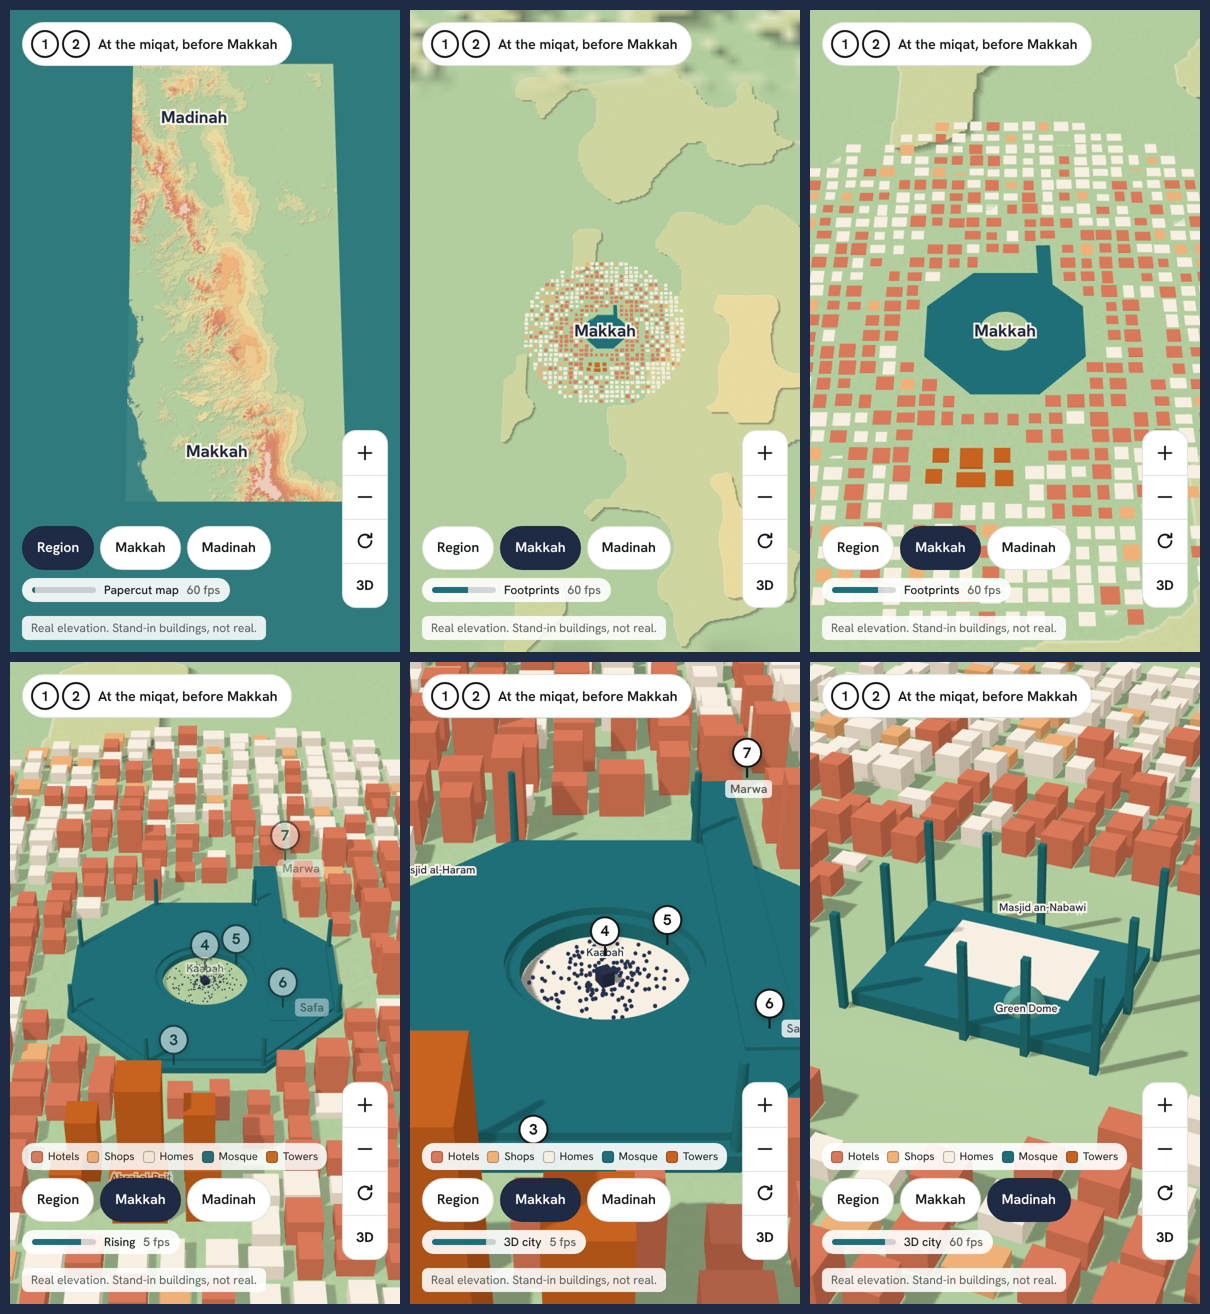
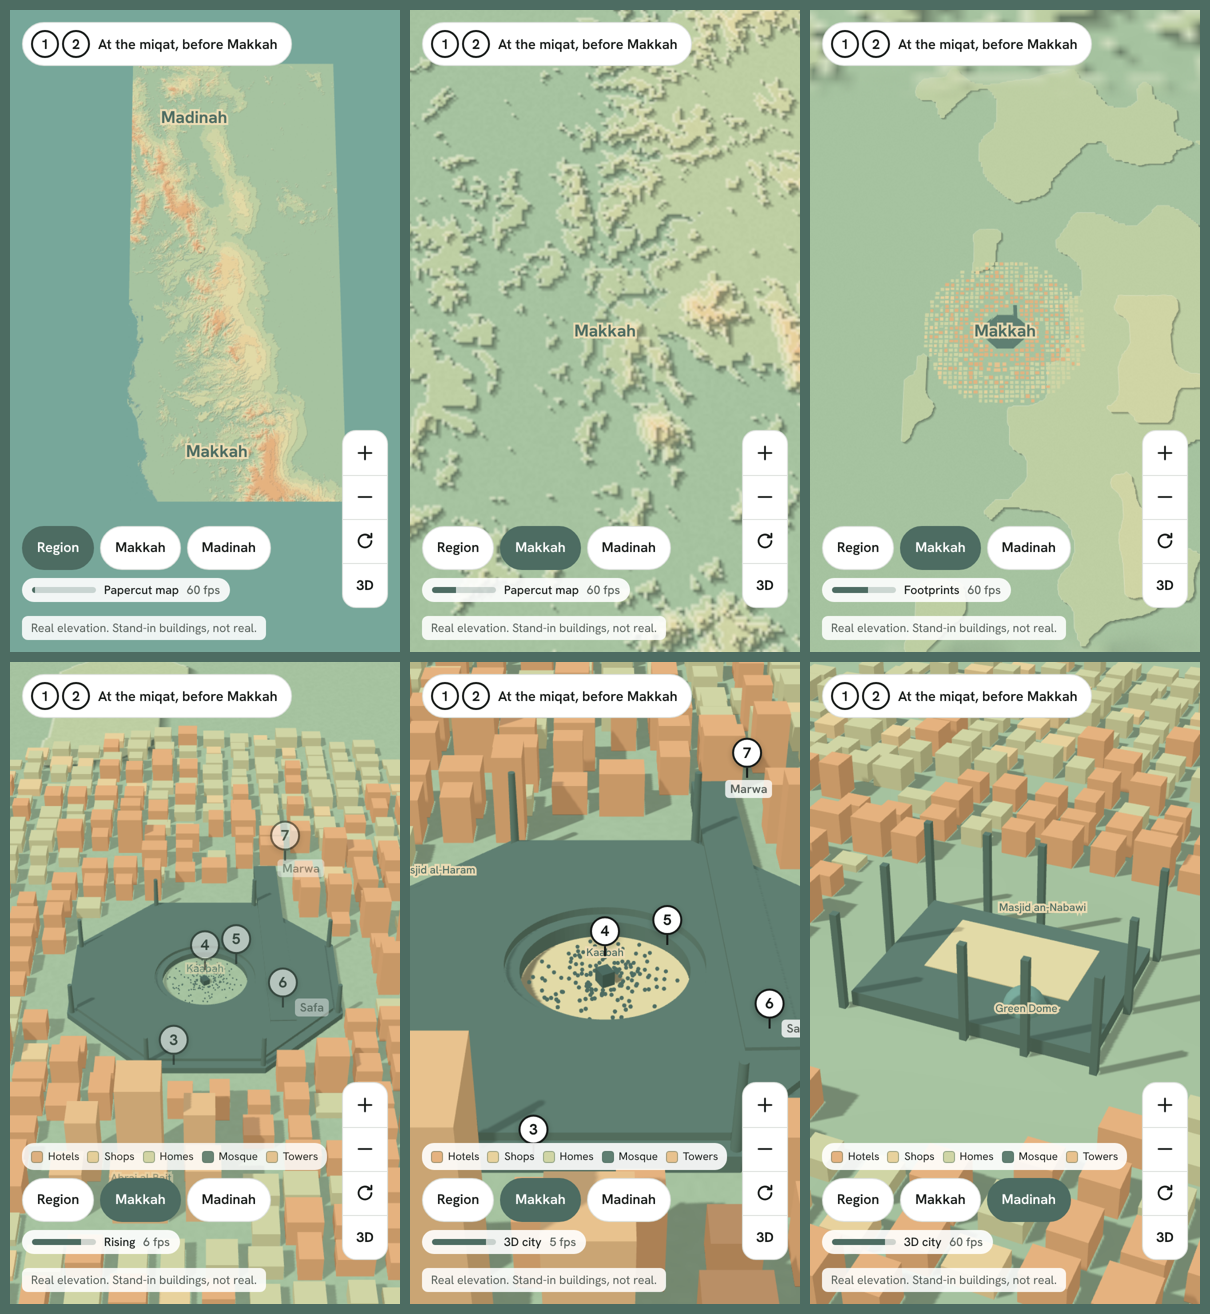
Papercut look: use only colours from the owner's reference image
Claude-Session: https://claude.ai/code/session_01NUgj7qxqmee1KNoCQzb7eD

diff --git a/src/scene/paperPaint.ts b/src/scene/paperPaint.ts
@@ -6,38 +6,24 @@
 // look: a soft shadow on the lower right of each higher layer, a faint light
 // edge on its upper left, and a little grain.
 
-const PAPER: [number, string][] = [
-  [0, '#2f7a7c'],
-  [0.18, '#62a69a'],
-  [0.38, '#b5cf9e'],
-  [0.55, '#ecdca0'],
-  [0.72, '#f0b178'],
-  [0.86, '#d9795a'],
-  [1, '#f7efe2'],
+/**
+ * The ground colours, all taken from the owner's reference image. Not every
+ * colour in the image is used: its seafoam green (#8fb69e) is left out because
+ * it is too close to the water colour. Layers 0-3 are open water; layers 4-11 are
+ * land from the valley floor up, in the image's order from bottom to top. The
+ * two highest layers share the warm orange.
+ */
+export const GROUND_COLOURS = [
+  '#77a79a', '#77a79a', '#77a79a', '#77a79a', // water
+  '#a6c3a0', '#becfa3', '#d0d5a5', '#e2daa7', '#e8d29d', '#e8c28e', '#e5b27f', '#e5b27f',
 ];
-export const LAYERS = 12;
+export const LAYERS = GROUND_COLOURS.length;
 
-const hex = (c: string): [number, number, number] => [
+const LAYER_COLOURS = GROUND_COLOURS.map((c): [number, number, number] => [
   parseInt(c.slice(1, 3), 16),
   parseInt(c.slice(3, 5), 16),
   parseInt(c.slice(5, 7), 16),
-];
-
-function ramp(t: number): [number, number, number] {
-  for (let i = 1; i < PAPER.length; i++) {
-    if (t <= PAPER[i][0]) {
-      const [t0, c0] = PAPER[i - 1];
-      const [t1, c1] = PAPER[i];
-      const f = (t - t0) / (t1 - t0);
-      const a = hex(c0);
-      const b = hex(c1);
-      return [a[0] + (b[0] - a[0]) * f, a[1] + (b[1] - a[1]) * f, a[2] + (b[2] - a[2]) * f];
-    }
-  }
-  return hex(PAPER[PAPER.length - 1][1]);
-}
-
-const LAYER_COLOURS = Array.from({ length: LAYERS }, (_, b) => ramp((b + 0.5) / LAYERS));
+]);
 
 const smoothstep = (a: number, b: number, x: number) => {
   const t = Math.min(1, Math.max(0, (x - a) / (b - a)));

diff --git a/src/styles.css b/src/styles.css
@@ -345,11 +345,11 @@ h1 {
 /* Papercut look. Bricolage Grotesque, as in the Papercut theme. */
 .app[data-look='papercut'] {
   --font-body: 'Bricolage Grotesque', system-ui, sans-serif;
-  --accent: #1f6f78;
+  --accent: #4d6c62;
 }
 
 .app[data-look='papercut'] .stage {
-  background: #2f7a7c;
+  background: #77a79a;
 }
 
 .pc-label {
@@ -370,8 +370,8 @@ h1 {
   white-space: nowrap;
   font-size: 11px;
   font-weight: 500;
-  color: #1f2a44;
-  -webkit-text-stroke: 4px rgba(252, 246, 234, 0.95);
+  color: #4d6c62;
+  -webkit-text-stroke: 4px rgba(238, 221, 181, 0.95);
   paint-order: stroke fill;
   text-shadow: none;
 }
@@ -420,7 +420,7 @@ h1 {
   width: 12px;
   height: 12px;
   border-radius: 3px;
-  border: 1px solid rgba(31, 42, 68, 0.35);
+  border: 1px solid rgba(77, 108, 98, 0.45);
 }
 
 .pc-row {
@@ -439,8 +439,8 @@ h1 {
 }
 
 .pc-row button.is-on {
-  background: #1f2a44;
-  border-color: #1f2a44;
+  background: #4d6c62;
+  border-color: #4d6c62;
   color: #fff;
 }
 
@@ -461,14 +461,14 @@ h1 {
   width: 64px;
   height: 6px;
   border-radius: 3px;
-  background: rgba(31, 42, 68, 0.18);
+  background: rgba(77, 108, 98, 0.25);
   overflow: hidden;
 }
 
 .pc-bar b {
   position: absolute;
   inset: 0 auto 0 0;
-  background: #1f6f78;
+  background: #4d6c62;
 }
 
 .pc-fps {

diff --git a/src/scene/papercutLandmarks.ts b/src/scene/papercutLandmarks.ts
@@ -44,7 +44,7 @@ export function makkahLandmarks(): THREE.Group {
     geo.rotateX(-Math.PI / 2);
     g.add(shadowed(new THREE.Mesh(geo, mosque)));
   }
-  const floor = new THREE.Mesh(new THREE.CircleGeometry(MATAF_RADIUS + 1, 64), lambert(KIND_COLOUR.home));
+  const floor = new THREE.Mesh(new THREE.CircleGeometry(MATAF_RADIUS + 1, 64), lambert(0xe2daa7));
   floor.rotation.x = -Math.PI / 2;
   floor.position.y = 0.5;
   floor.receiveShadow = true;
@@ -83,7 +83,7 @@ export function madinahLandmarks(): THREE.Group {
   hall.position.y = 8;
   g.add(shadowed(hall));
 
-  const court = new THREE.Mesh(new THREE.BoxGeometry(150, 1, 90), lambert(KIND_COLOUR.home));
+  const court = new THREE.Mesh(new THREE.BoxGeometry(150, 1, 90), lambert(0xe2daa7));
   court.position.set(0, 16.4, -20);
   court.receiveShadow = true;
   g.add(court);

diff --git a/src/scene/papercutCity.ts b/src/scene/papercutCity.ts
@@ -18,15 +18,18 @@ export interface Building {
   k: Kind;
 }
 
-/** Flat colours from the Papercut palette. */
+/**
+ * Flat colours, all from the owner's reference image: the warm layer colours for
+ * buildings and its two darker shadow greens for the mosque and the Kaabah.
+ */
 export const KIND_COLOUR: Record<Kind | 'kaabah' | 'dome', number> = {
-  hotel: 0xd9795a,
-  shop: 0xf0b178,
-  home: 0xf7efe2,
-  mosque: 0x1f6f78,
-  tower: 0xc7621f,
-  kaabah: 0x26324d,
-  dome: 0x62a69a,
+  hotel: 0xe5b27f,
+  shop: 0xe8d29d,
+  home: 0xd0d5a5,
+  mosque: 0x5f7f72,
+  tower: 0xe8c28e,
+  kaabah: 0x4d6c62,
+  dome: 0x77a79a,
 };
 
 function rng(seed: number) {

diff --git a/src/PapercutDock.tsx b/src/PapercutDock.tsx
@@ -5,11 +5,11 @@ import type { PaperStage } from './scene/PapercutScene';
 // buildings have risen. The colours are the building colours in the scene.
 
 const LEGEND = [
-  { label: 'Hotels', colour: '#d9795a' },
-  { label: 'Shops', colour: '#f0b178' },
-  { label: 'Homes', colour: '#f7efe2' },
-  { label: 'Mosque', colour: '#1f6f78' },
-  { label: 'Towers', colour: '#c7621f' },
+  { label: 'Hotels', colour: '#e5b27f' },
+  { label: 'Shops', colour: '#e8d29d' },
+  { label: 'Homes', colour: '#d0d5a5' },
+  { label: 'Mosque', colour: '#5f7f72' },
+  { label: 'Towers', colour: '#e8c28e' },
 ];
 
 interface Props {

diff --git a/src/scene/PapercutScene.ts b/src/scene/PapercutScene.ts
@@ -68,7 +68,7 @@ const PATCH_FULL = 22000;
 const MIN_DISTANCE = 120;
 const MAX_DISTANCE = 1_600_000;
 const NODE_COUNT = 150;
-const BG = 0x2f7a7c;
+const BG = 0x77a79a; // the water colour from the reference image
 
 const sstep = (a: number, b: number, x: number) => {
   const t = Math.min(1, Math.max(0, (x - a) / (b - a)));
